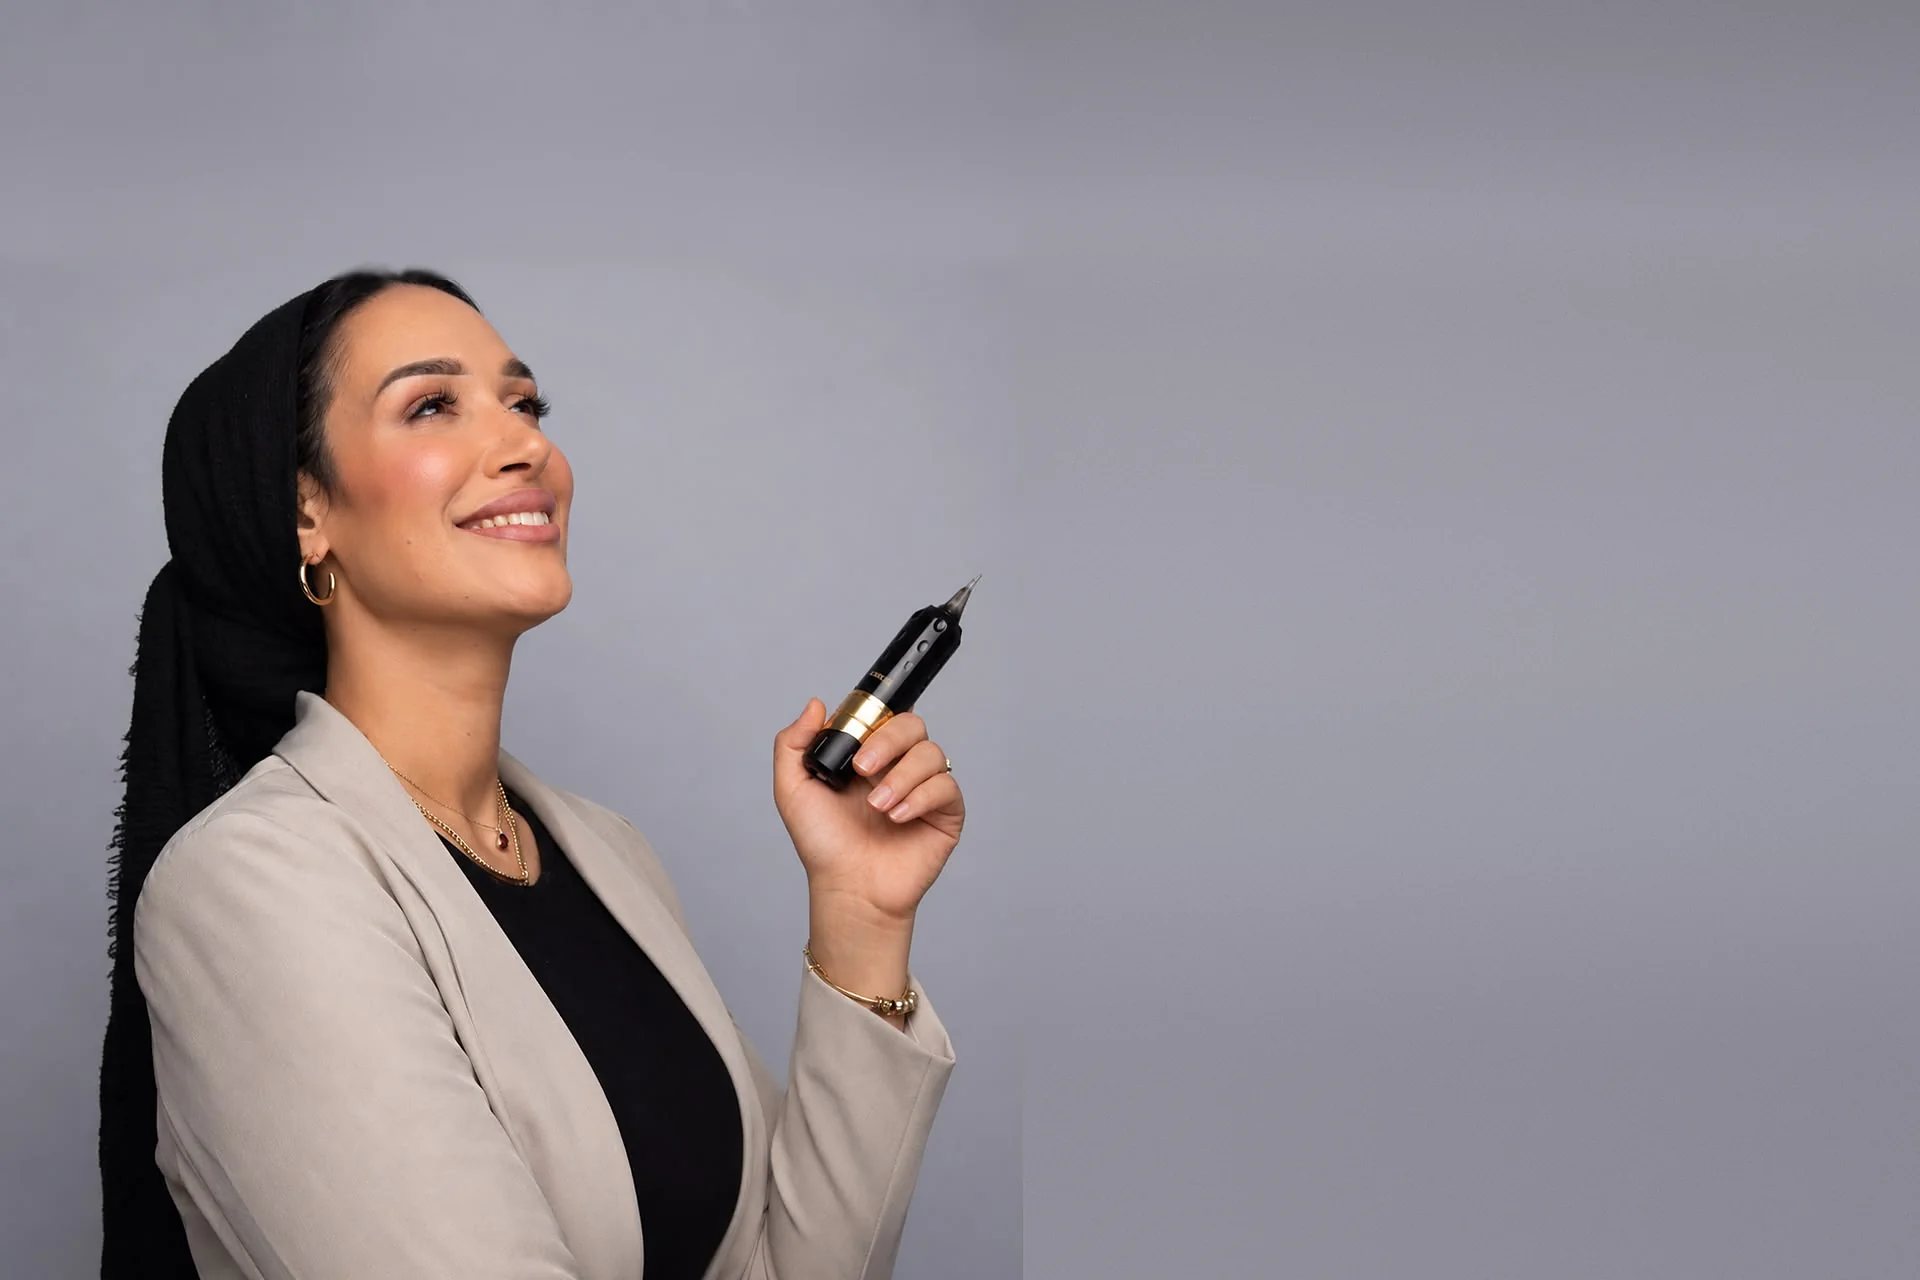
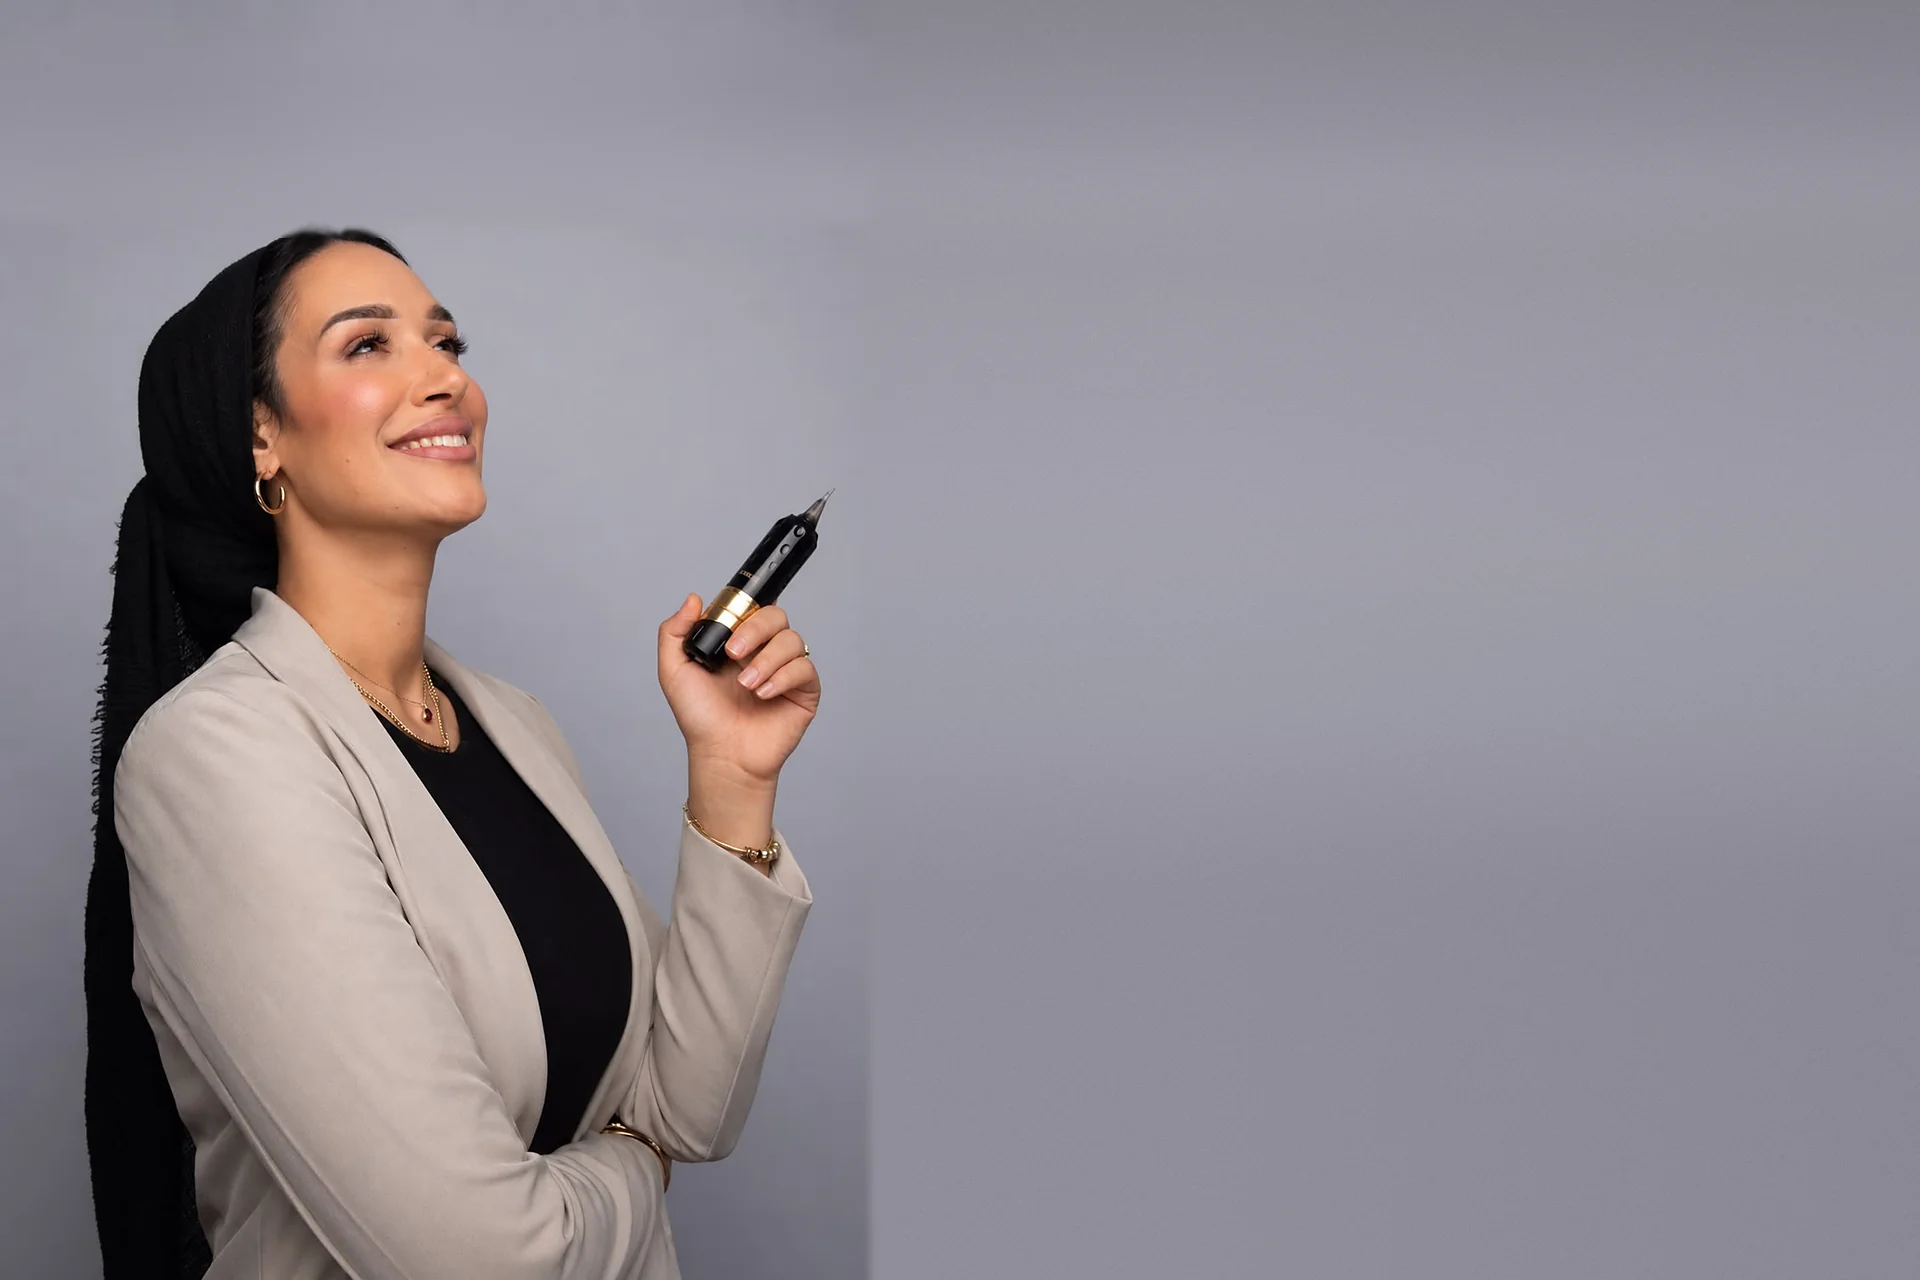
שיפור הירו 2

Changed region(s): [[0.0312, 0.1562, 0.5, 1.0]]

diff --git a/assets/css/style.css b/assets/css/style.css
@@ -353,7 +353,7 @@ body.nav-open .nav-overlay { opacity: 1; pointer-events: auto; }
     min-height: min(calc(100svh - 68px), 880px);
   }
   /* הדמות נעוצה בקצה — הקיר המורחב ממלא את שאר הרוחב, בלי זום מיותר */
-  .hero-media img { object-position: 0% 22%; }
+  .hero-media img { object-position: 0% 30%; }
   /* המסה אל אזור הטקסט (מוגדרת בפיקסלים כדי שהדמות לא תישטף במסכים רחבים)
      + המסה תחתונה אל הדף + חימום בלאש עדין למעלה */
   .hero-veil {
